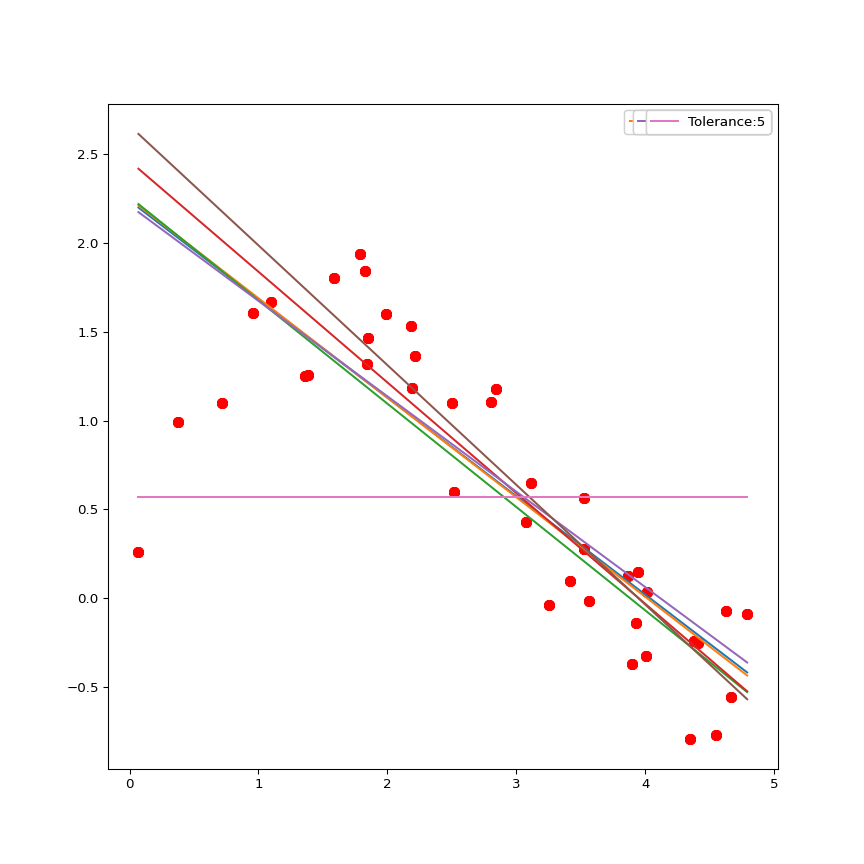
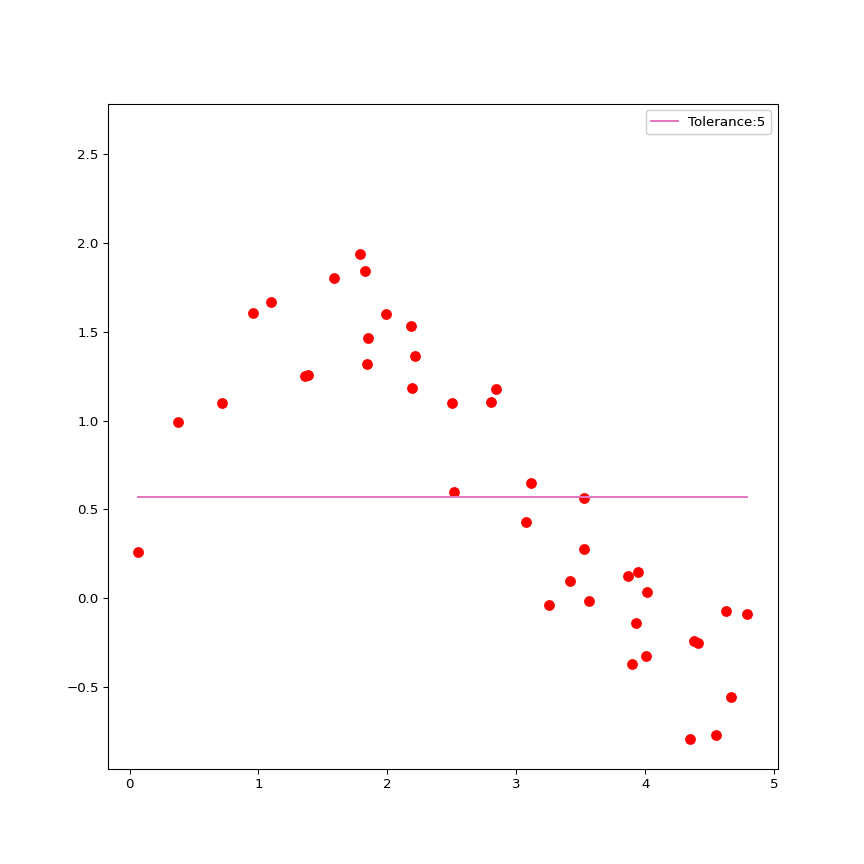
SVR update

Changed region(s): [[0.1562, 0.1562, 0.875, 0.8125], [0.7188, 0.125, 0.75, 0.1562]]

diff --git a/SVM_SVR/SVR_sample_code.md b/SVM_SVR/SVR_sample_code.md
@@ -45,6 +45,7 @@ yy += err
 ## Fit SVR Model with linear kernel
 
 ``` python
+
 Tol = [0.01, 0.05, 0.1, 0.2, 0.5, 1, 5]
 
 
@@ -59,11 +60,15 @@ for k in Tol:
     snapp = plt.plot(xx, pred)
     plt.legend(snapp, [f'Tolerance:{k}'])
     camera.snap() 
-animation = camera.animate()
+# animation = camera.animate()
 
-# animation = camera.animate(interval=500, blit=True)  
-
-plt.show()
+animation = camera.animate(interval=500, blit=True)  
+animation.save('animation.mp4', writer='ffmpeg', fps=30)  
+# plt.show()
 ```
 
 ![](SVR_sample_code_files/figure-commonmark/unnamed-chunk-5-1.png)
+
+------------------------------------------------------------------------
+
+![Animation](animation.mp4)
